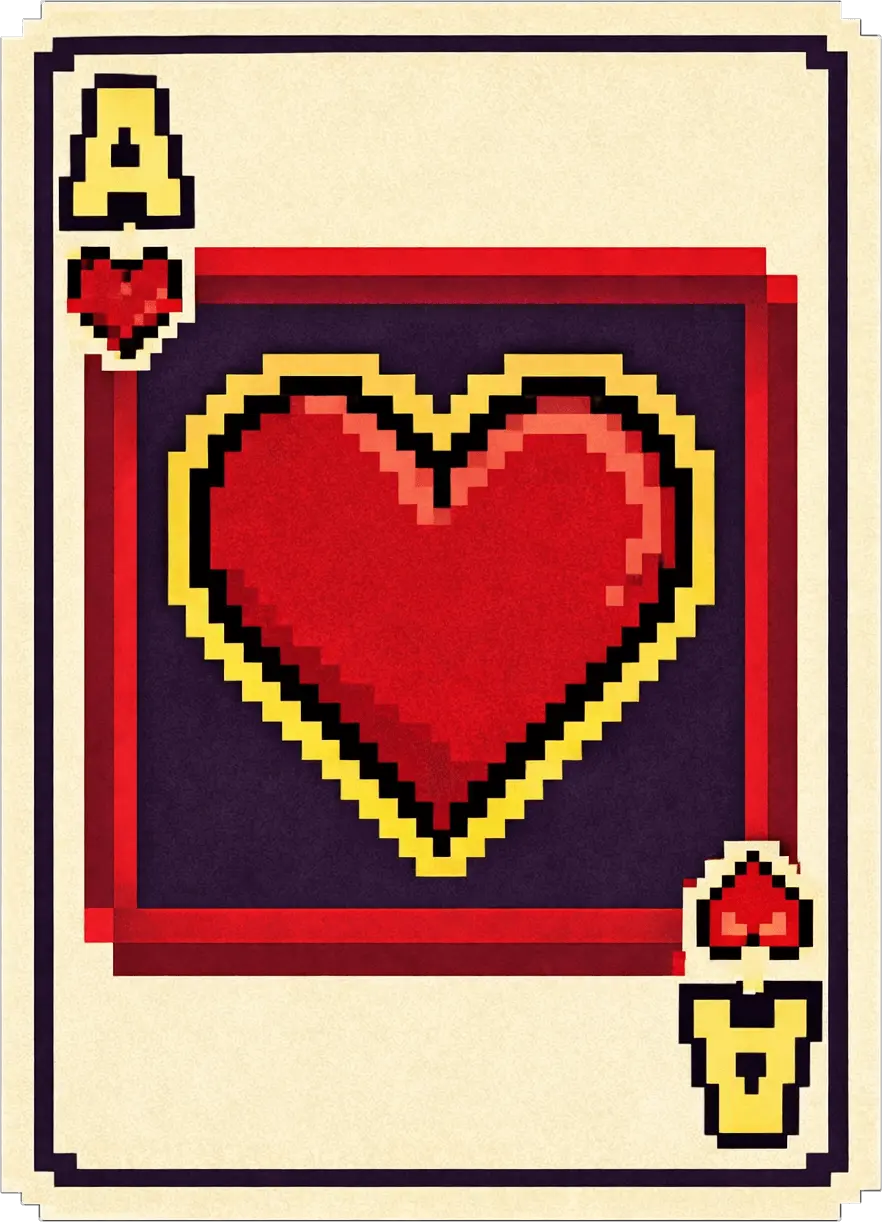
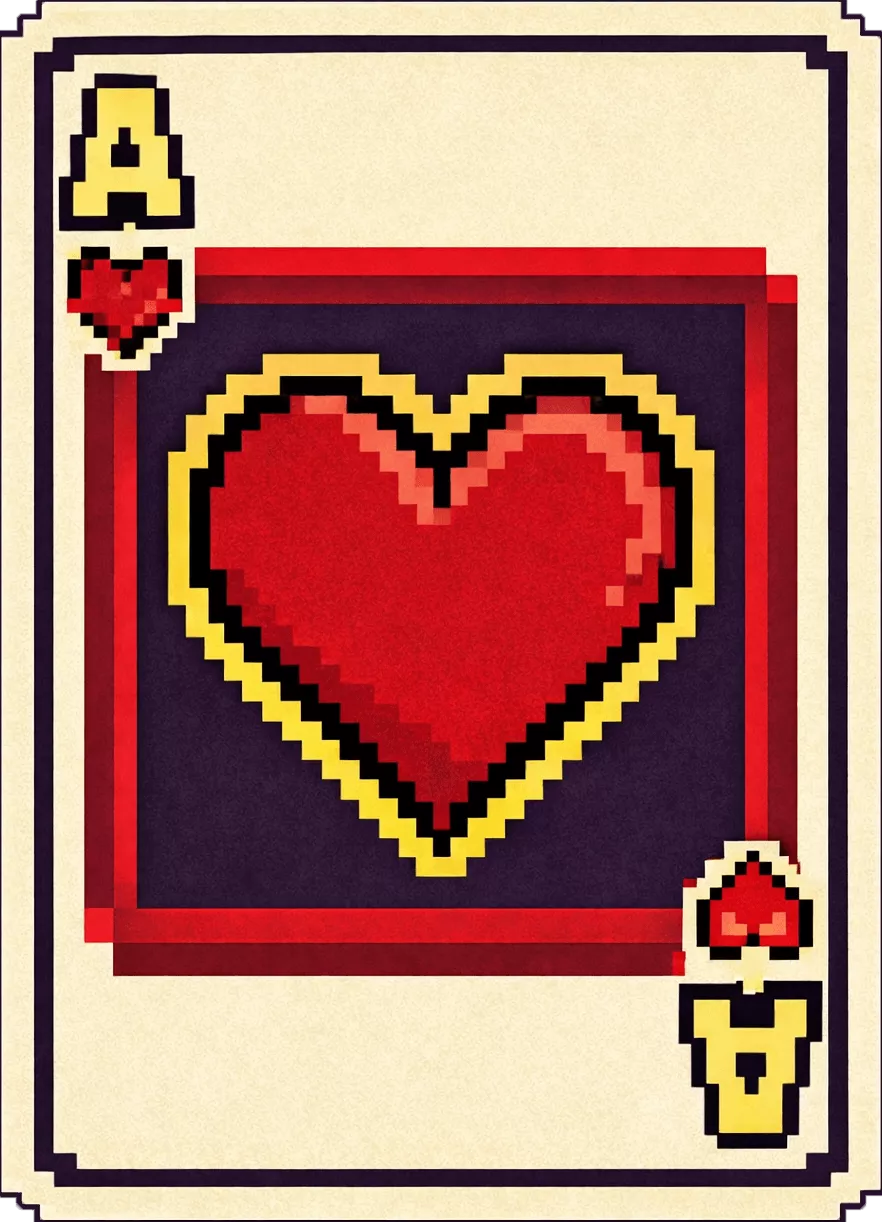
Updated card assets, Adjusted card positions on the screen

Changed region(s): [[0.0, 0.0, 1.0, 1.0], [0.0, 0.0, 0.0612, 0.0311]]

diff --git a/src/scenes/AceOfShadowsScene.ts b/src/scenes/AceOfShadowsScene.ts
@@ -8,7 +8,7 @@ import { cardPool } from '../views/aceOfShadows/CardPool';
 
 const STACK_COUNT: number = 4;
 const CARDS_PER_STACK: number = 36;
-const CARD_SCALE: number = 0.3;
+const CARD_SCALE: number = 0.25;
 const CARD_Y_OFFSET: number = 5;
 const STACK_HORIZONTAL_MARGIN_RATIO: number = 0.2;
 
@@ -71,7 +71,7 @@ export class AceOfShadowsScene extends Scene {
     } else {
       this.root.scale.set(1);
       this.root.x = 0;
-      this.root.y = 0;
+      this.root.y = 50; //Y offset to better align the scene in the screen
     } 
   }
 
